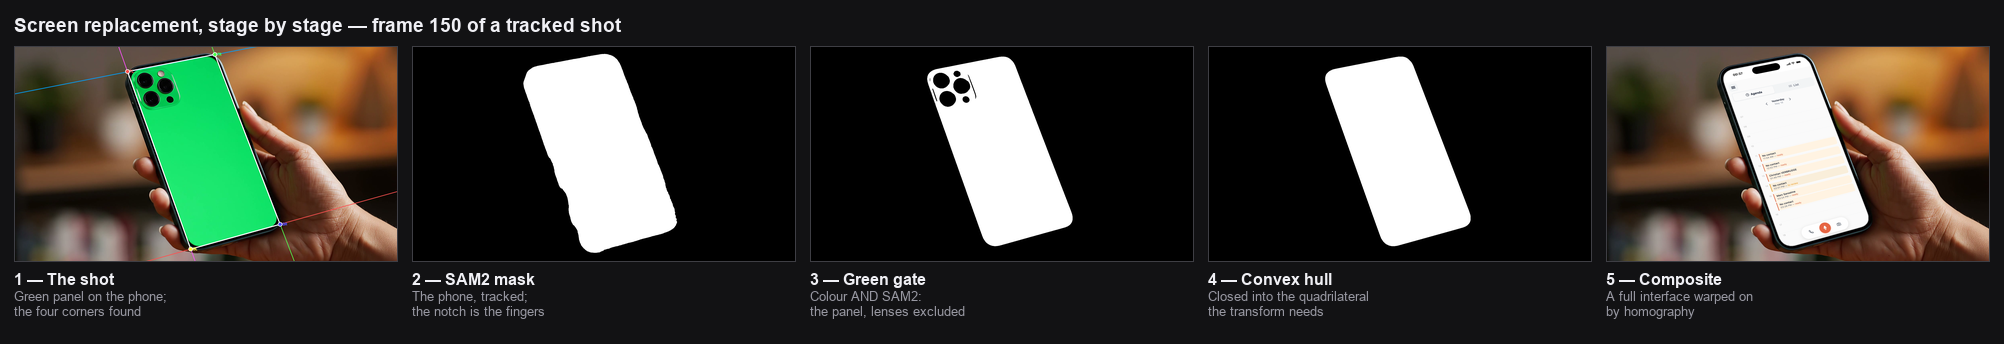
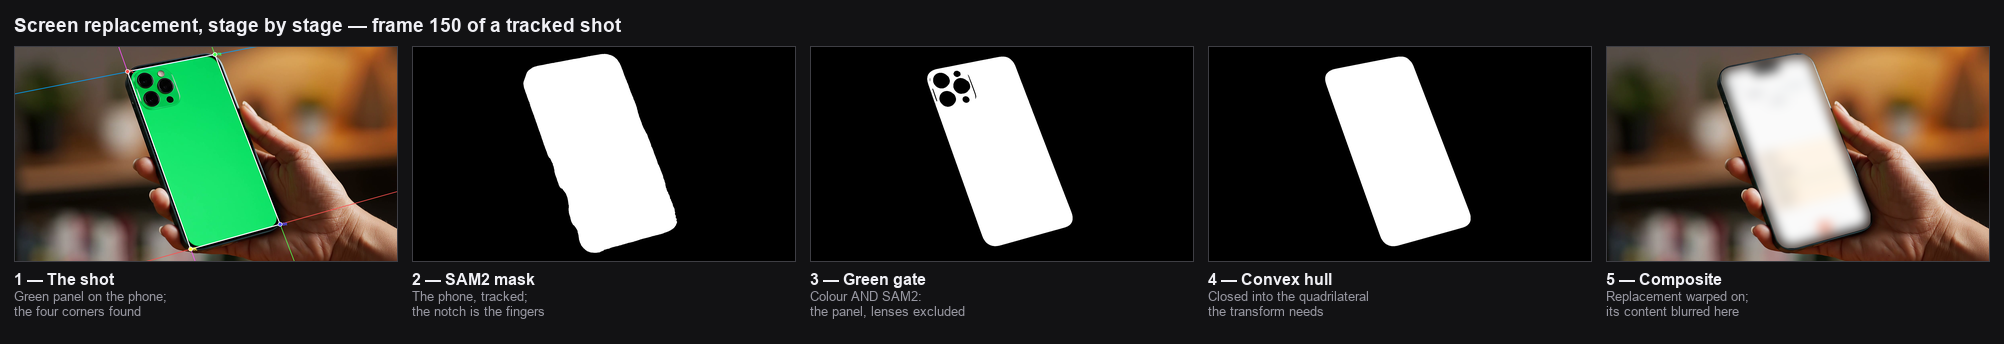
docs: redact the replaced screen in the pipeline figure
The composite panel came from a real shot whose replacement content was a
private product interface, with readable personal names on it. Checked before
pushing, not after.

The screen is blurred using the pipeline's own convex-hull mask, dilated - the
figure redacts itself with the thing it computes. The geometry, which is what
the figure is about, is untouched, and the caption says what was done.

Changed region(s): [[0.8353, 0.1453, 0.9591, 0.7267], [0.8044, 0.843, 0.8972, 0.9302]]

diff --git a/README.md b/README.md
@@ -95,6 +95,9 @@ replacement onto it, frame by frame.
 
 ![Screen replacement, stage by stage](docs/images/screen-replacement-stages.png)
 
+*The replacement content in the last panel is blurred: the shot these debug frames come from
+carried a private interface. The geometry is untouched — that is what the figure is about.*
+
 These tools need the `sam2` Docker profile — see below. The other 37 tools do not.
 
 ## Taking over by hand
